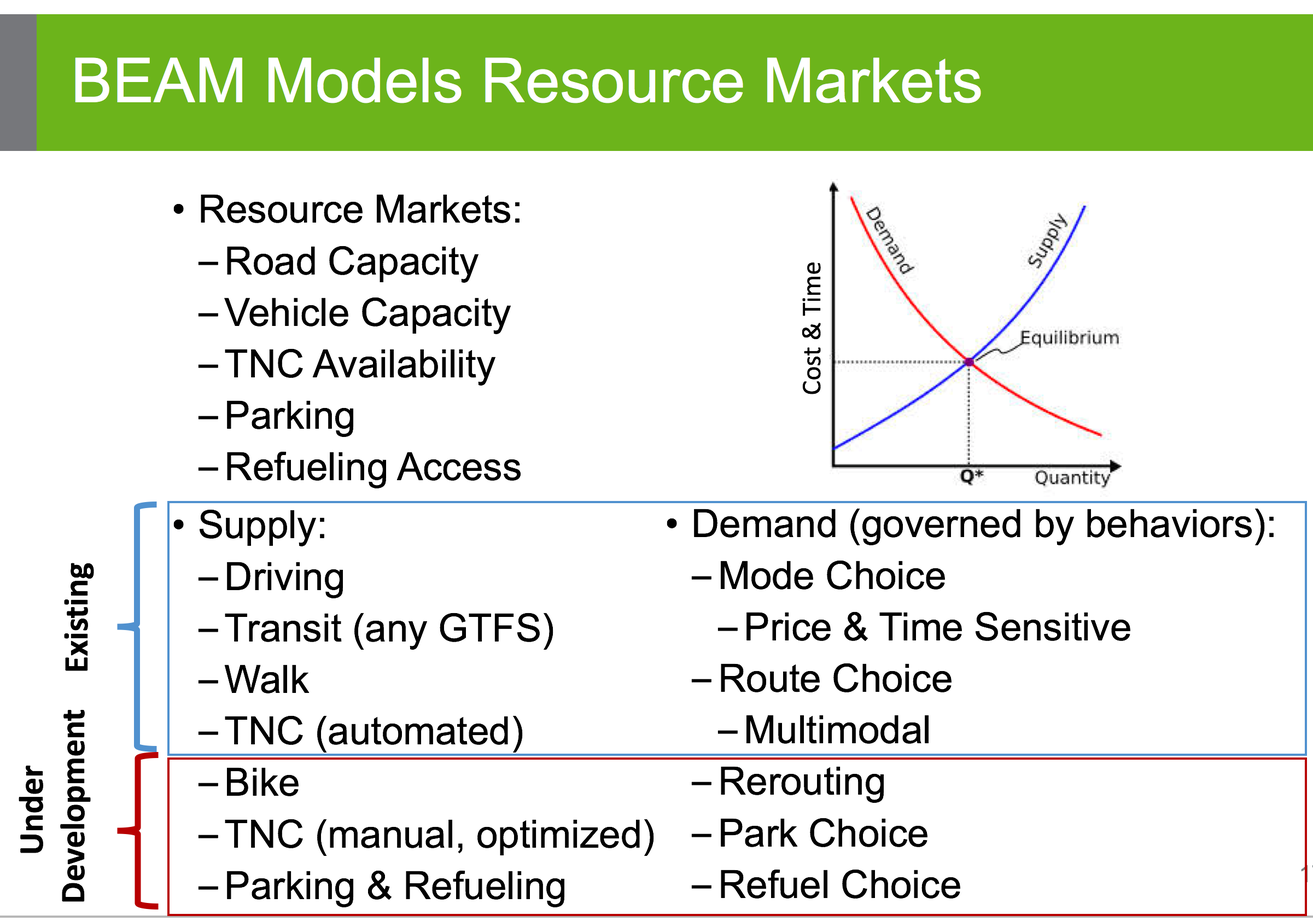
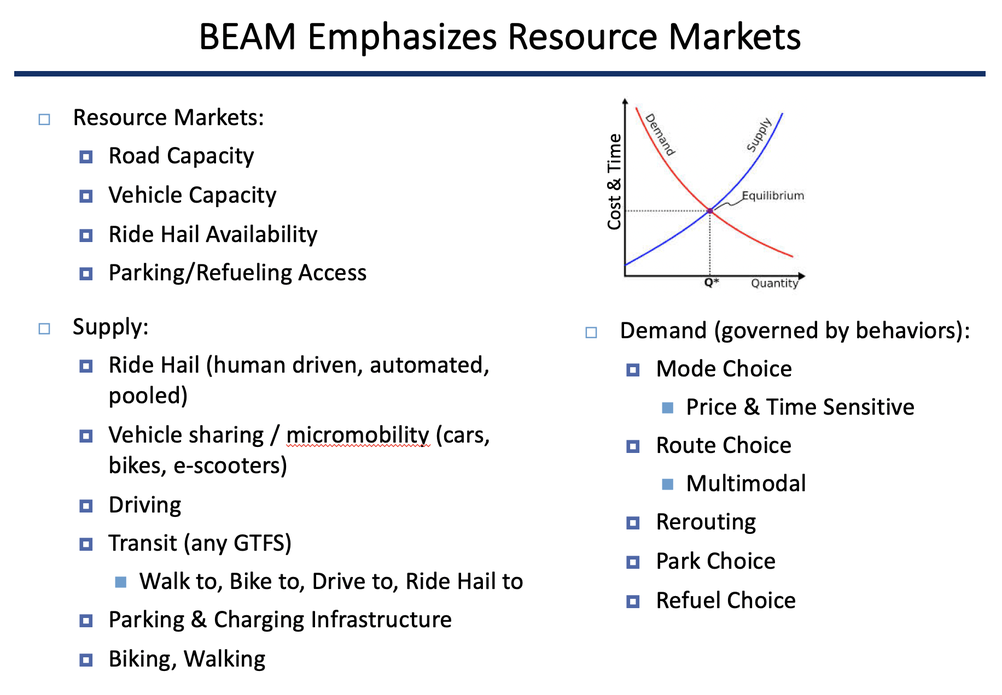
updates

Changed region(s): [[0.0, 0.0, 1.0, 1.0], [0.0622, 0.4599, 0.1556, 0.4906]]

diff --git a/docs/outputs.rst b/docs/outputs.rst
@@ -140,8 +140,8 @@ Classname: PhyssimCalcLinkSpeedDistributionStatsObject
 | numberOfLinks              | Total number of links having the corresponding link efficiency                                            |
 +----------------------------+-----------------------------------------------------------------------------------------------------------+
 
-File: /ITERS/it.0/0.rideHailWaitingStats.csv
---------------------------------------------
+File: /ITERS/it.0/0.rideHailWaitingHistogram.csv
+------------------------------------------------
 
 Classname: RideHailWaitingAnalysisObject 
 
@@ -201,8 +201,8 @@ Classname: GraphSurgePricingObject
 +------------+---------------------------------------------------------------------------------------------------------------------+
 
 
-File: /ITERS/it.0/0.tazRideHailSurgePriceLevel.csv
---------------------------------------------------
+File: /ITERS/it.0/0.tazRideHailSurgePriceLevel.csv.gz
+-----------------------------------------------------
 
 Classname: GraphSurgePricingObject 
 
@@ -230,21 +230,6 @@ Classname: RideHailingWaitingSingleAnalysisObject
 +------------------+------------------------------------------------------+
 | Hour*            | Hour of the day                                      |
 +------------------+------------------------------------------------------+
-
-File: /ITERS/it.0/0.rideHailInitialLocation.csv
------------------------------------------------
-
-Classname: BeamMobsim 
-
-+-----------------+---------------------------------------------------------+
-| field           | description                                             |
-+=================+=========================================================+
-| rideHailAgentID | Unique id of the given ride hail agent                  |
-+-----------------+---------------------------------------------------------+
-| xCoord          | X co-ordinate of the starting location of the ride hail |
-+-----------------+---------------------------------------------------------+
-| yCoord          | Y co-ordinate of the starting location of the ride hail |
-+-----------------+---------------------------------------------------------+
 
 File: /stopwatch.txt
 --------------------
@@ -319,77 +304,77 @@ File: /summaryStats.txt
 
 Classname: SummaryStatsOutput 
 
-+----------------------------------------+---------------------------------------------------------------------------------------------------------------------------------+
-| field                                  | description                                                                                                                     |
-+========================================+=================================================================================================================================+
-| Iteration                              | Iteration number                                                                                                                |
-+----------------------------------------+---------------------------------------------------------------------------------------------------------------------------------+
-| agentHoursOnCrowdedTransit             | Time taken by the agent to travel in a crowded transit                                                                          |
-+----------------------------------------+---------------------------------------------------------------------------------------------------------------------------------+
-| fuelConsumedInMJ_Diesel                | Amount of diesel consumed in megajoule                                                                                          |
-+----------------------------------------+---------------------------------------------------------------------------------------------------------------------------------+
-| fuelConsumedInMJ_Food                  | Amount of food consumed in megajoule                                                                                            |
-+----------------------------------------+---------------------------------------------------------------------------------------------------------------------------------+
-| fuelConsumedInMJ_Electricity           | Amount of electricity consumed in megajoule                                                                                     |
-+----------------------------------------+---------------------------------------------------------------------------------------------------------------------------------+
-| fuelConsumedInMJ_Gasoline              | Amount of gasoline consumed in megajoule                                                                                        |
-+----------------------------------------+---------------------------------------------------------------------------------------------------------------------------------+
-| numberOfVehicles_BEV                   | Time at which the beforeMobsim event listeners started                                                                          |
-+----------------------------------------+---------------------------------------------------------------------------------------------------------------------------------+
-| numberOfVehicles_BODY-TYPE-DEFAULT     | Number of vehicles of type BODY-TYPE-DEFAULT                                                                                    |
-+----------------------------------------+---------------------------------------------------------------------------------------------------------------------------------+
-| numberOfVehicles_BUS-DEFAULT           | Number of vehicles of type BUS-DEFAULT                                                                                          |
-+----------------------------------------+---------------------------------------------------------------------------------------------------------------------------------+
-| numberOfVehicles_Car                   | Time at which the beforeMobsim event listeners ended                                                                            |
-+----------------------------------------+---------------------------------------------------------------------------------------------------------------------------------+
-| numberOfVehicles_SUBWAY-DEFAULT        | Time at which the mobsim run started                                                                                            |
-+----------------------------------------+---------------------------------------------------------------------------------------------------------------------------------+
-| personTravelTime_car                   | Time taken by the passenger to travel by car                                                                                    |
-+----------------------------------------+---------------------------------------------------------------------------------------------------------------------------------+
-| personTravelTime_drive_transit         | Time taken by the passenger to drive to the transit                                                                             |
-+----------------------------------------+---------------------------------------------------------------------------------------------------------------------------------+
-| personTravelTime_others                | Time taken by the passenger to travel by other means                                                                            |
-+----------------------------------------+---------------------------------------------------------------------------------------------------------------------------------+
-| personTravelTime_walk                  | Time taken by the passenger to travel on foot                                                                                   |
-+----------------------------------------+---------------------------------------------------------------------------------------------------------------------------------+
-| personTravelTime_walk_transit          | Time taken by the passenger to walk to the transit                                                                              |
-+----------------------------------------+---------------------------------------------------------------------------------------------------------------------------------+
++------------------------------------------+-----------------------------------------------------------------------------------------------------------------------------------+
+| field                                    | description                                                                                                                       |
++==========================================+===================================================================================================================================+
+| Iteration                                | Iteration number                                                                                                                  |
++------------------------------------------+-----------------------------------------------------------------------------------------------------------------------------------+
+| agentHoursOnCrowdedTransit               | Time taken by the agent to travel in a crowded transit                                                                            |
++------------------------------------------+-----------------------------------------------------------------------------------------------------------------------------------+
+| fuelConsumedInMJ_Diesel                  | Amount of diesel consumed in megajoule                                                                                            |
++------------------------------------------+-----------------------------------------------------------------------------------------------------------------------------------+
+| fuelConsumedInMJ_Food                    | Amount of food consumed in megajoule                                                                                              |
++------------------------------------------+-----------------------------------------------------------------------------------------------------------------------------------+
+| fuelConsumedInMJ_Electricity             | Amount of electricity consumed in megajoule                                                                                       |
++------------------------------------------+-----------------------------------------------------------------------------------------------------------------------------------+
+| fuelConsumedInMJ_Gasoline                | Amount of gasoline consumed in megajoule                                                                                          |
++------------------------------------------+-----------------------------------------------------------------------------------------------------------------------------------+
+| numberOfVehicles_BEV                     | Time at which the beforeMobsim event listeners started                                                                            |
++------------------------------------------+-----------------------------------------------------------------------------------------------------------------------------------+
+| numberOfVehicles_BODY-TYPE-DEFAULT       | Number of vehicles of type BODY-TYPE-DEFAULT                                                                                      |
++------------------------------------------+-----------------------------------------------------------------------------------------------------------------------------------+
+| numberOfVehicles_BUS-DEFAULT             | Number of vehicles of type BUS-DEFAULT                                                                                            |
++------------------------------------------+-----------------------------------------------------------------------------------------------------------------------------------+
+| numberOfVehicles_Car                     | Time at which the beforeMobsim event listeners ended                                                                              |
++------------------------------------------+-----------------------------------------------------------------------------------------------------------------------------------+
+| numberOfVehicles_SUBWAY-DEFAULT          | Time at which the mobsim run started                                                                                              |
++------------------------------------------+-----------------------------------------------------------------------------------------------------------------------------------+
+| personTravelTime_car                     | Time taken by the passenger to travel by car                                                                                      |
++------------------------------------------+-----------------------------------------------------------------------------------------------------------------------------------+
+| personTravelTime_drive_transit           | Time taken by the passenger to drive to the transit                                                                               |
++------------------------------------------+-----------------------------------------------------------------------------------------------------------------------------------+
+| personTravelTime_others                  | Time taken by the passenger to travel by other means                                                                              |
++------------------------------------------+-----------------------------------------------------------------------------------------------------------------------------------+
+| personTravelTime_walk                    | Time taken by the passenger to travel on foot                                                                                     |
++------------------------------------------+-----------------------------------------------------------------------------------------------------------------------------------+
+| personTravelTime_walk_transit            | Time taken by the passenger to walk to the transit                                                                                |
++------------------------------------------+-----------------------------------------------------------------------------------------------------------------------------------+
 | totalCostIncludingIncentive_walk_transit | Total cost (including incentive) paid by the passenger to reach destination by walking to transit and then transit to destination |
-+----------------------------------------+---------------------------------------------------------------------------------------------------------------------------------+
++------------------------------------------+-----------------------------------------------------------------------------------------------------------------------------------+
 | totalCostIncludingIncentive_ride_hail    | Total cost (including incentive) paid by the passenger to reach destination on a ride hail                                        |
-+----------------------------------------+---------------------------------------------------------------------------------------------------------------------------------+
++------------------------------------------+-----------------------------------------------------------------------------------------------------------------------------------+
 | totalIncentive_drive_transit             | Total incentive amount paid to passenger to reach destination by driving to transit and then transit to destination               |
-+----------------------------------------+---------------------------------------------------------------------------------------------------------------------------------+
++------------------------------------------+-----------------------------------------------------------------------------------------------------------------------------------+
 | totalIncentive_ride_hail                 | Total incentive amount paid to passenger to reach destination by ride hail                                                        |
-+----------------------------------------+---------------------------------------------------------------------------------------------------------------------------------+
++------------------------------------------+-----------------------------------------------------------------------------------------------------------------------------------+
 | totalIncentive_walk_transit              | Total incentive amount paid to passenger to reach destination by walking to transit and then transit to destination               |
-+----------------------------------------+---------------------------------------------------------------------------------------------------------------------------------+
-| totalTravelTime                        | Total time taken by the passenger to travel from source to destination                                                          |
-+----------------------------------------+---------------------------------------------------------------------------------------------------------------------------------+
-| totalVehicleDelay                      | Sum of all the delay times incurred by the vehicle during the travel                                                            |
-+----------------------------------------+---------------------------------------------------------------------------------------------------------------------------------+
-| vehicleHoursTraveled_BEV               | Time taken (in hours) by the vehicle to travel from source to destination                                                       |
-+----------------------------------------+---------------------------------------------------------------------------------------------------------------------------------+
-| vehicleHoursTraveled_BODY-TYPE-DEFAULT | Time taken (in hours) by the vehicle to travel from source to destination                                                       |
-+----------------------------------------+---------------------------------------------------------------------------------------------------------------------------------+
-| vehicleHoursTraveled_BUS-DEFAULT       | Time taken (in hours) by the vehicle(bus) to travel from source to destination                                                  |
-+----------------------------------------+---------------------------------------------------------------------------------------------------------------------------------+
-| vehicleHoursTraveled_Car               | Time taken (in hours) by the vehicle(car) to travel from source to destination                                                  |
-+----------------------------------------+---------------------------------------------------------------------------------------------------------------------------------+
-| vehicleHoursTraveled_SUBWAY-DEFAULT    | Time taken (in hours) by the vehicle (subway) to travel from source to destination                                              |
-+----------------------------------------+---------------------------------------------------------------------------------------------------------------------------------+
-| vehicleMilesTraveled_BEV               | Miles covered by the vehicle to travel from source to destination                                                               |
-+----------------------------------------+---------------------------------------------------------------------------------------------------------------------------------+
-| vehicleMilesTraveled_BODY-TYPE-DEFAULT | Miles covered by the vehicle to travel from source to destination                                                               |
-+----------------------------------------+---------------------------------------------------------------------------------------------------------------------------------+
-| vehicleMilesTraveled_BUS-DEFAULT       | Miles covered by the vehicle(bus) to travel from source to destination                                                          |
-+----------------------------------------+---------------------------------------------------------------------------------------------------------------------------------+
-| vehicleMilesTraveled_Car               | Miles covered by the vehicle(car) to travel from source to destination                                                          |
-+----------------------------------------+---------------------------------------------------------------------------------------------------------------------------------+
-| vehicleMilesTraveled_SUBWAY-DEFAULT    | Miles covered by the vehicle(subway) to travel from source to destination                                                       |
-+----------------------------------------+---------------------------------------------------------------------------------------------------------------------------------+
-| vehicleMilesTraveled_total             | Miles covered by the vehicles(all modes) to travel from source to destination                                                   |
-+----------------------------------------+---------------------------------------------------------------------------------------------------------------------------------+
++------------------------------------------+-----------------------------------------------------------------------------------------------------------------------------------+
+| totalTravelTime                          | Total time taken by the passenger to travel from source to destination                                                            |
++------------------------------------------+-----------------------------------------------------------------------------------------------------------------------------------+
+| totalVehicleDelay                        | Sum of all the delay times incurred by the vehicle during the travel                                                              |
++------------------------------------------+-----------------------------------------------------------------------------------------------------------------------------------+
+| vehicleHoursTraveled_BEV                 | Time taken (in hours) by the vehicle to travel from source to destination                                                         |
++------------------------------------------+-----------------------------------------------------------------------------------------------------------------------------------+
+| vehicleHoursTraveled_BODY-TYPE-DEFAULT   | Time taken (in hours) by the vehicle to travel from source to destination                                                         |
++------------------------------------------+-----------------------------------------------------------------------------------------------------------------------------------+
+| vehicleHoursTraveled_BUS-DEFAULT         | Time taken (in hours) by the vehicle(bus) to travel from source to destination                                                    |
++------------------------------------------+-----------------------------------------------------------------------------------------------------------------------------------+
+| vehicleHoursTraveled_Car                 | Time taken (in hours) by the vehicle(car) to travel from source to destination                                                    |
++------------------------------------------+-----------------------------------------------------------------------------------------------------------------------------------+
+| vehicleHoursTraveled_SUBWAY-DEFAULT      | Time taken (in hours) by the vehicle (subway) to travel from source to destination                                                |
++------------------------------------------+-----------------------------------------------------------------------------------------------------------------------------------+
+| vehicleMilesTraveled_BEV                 | Miles covered by the vehicle to travel from source to destination                                                                 |
++------------------------------------------+-----------------------------------------------------------------------------------------------------------------------------------+
+| vehicleMilesTraveled_BODY-TYPE-DEFAULT   | Miles covered by the vehicle to travel from source to destination                                                                 |
++------------------------------------------+-----------------------------------------------------------------------------------------------------------------------------------+
+| vehicleMilesTraveled_BUS-DEFAULT         | Miles covered by the vehicle(bus) to travel from source to destination                                                            |
++------------------------------------------+-----------------------------------------------------------------------------------------------------------------------------------+
+| vehicleMilesTraveled_Car                 | Miles covered by the vehicle(car) to travel from source to destination                                                            |
++------------------------------------------+-----------------------------------------------------------------------------------------------------------------------------------+
+| vehicleMilesTraveled_SUBWAY-DEFAULT      | Miles covered by the vehicle(subway) to travel from source to destination                                                         |
++------------------------------------------+-----------------------------------------------------------------------------------------------------------------------------------+
+| vehicleMilesTraveled_total               | Miles covered by the vehicles(all modes) to travel from source to destination                                                     |
++------------------------------------------+-----------------------------------------------------------------------------------------------------------------------------------+
 
 File: /ITERS/it.0/0.countsCompare.txt
 -------------------------------------
@@ -627,3 +612,30 @@ Classname: BiasNormalizedErrorGraphDataOutput
 +--------------------------------+--------------------------------+
 | mean bias                      | Mean bias value                |
 +--------------------------------+--------------------------------+
+
+File: /ITERS/it.0/0.rideHailFleet.csv.gz
+----------------------------------------
+
+Classname: RideHailFleetInitialize 
+
++-------------------+-------------------------------------------------------------------------------+
+| field             | description                                                                   |
++===================+===============================================================================+
+| id                | Id of the ride hail vehicle                                                   |
++-------------------+-------------------------------------------------------------------------------+
+| rideHailManagerId | Id of the ride hail manager                                                   |
++-------------------+-------------------------------------------------------------------------------+
+| vehicleType       | Type of the beam vehicle                                                      |
++-------------------+-------------------------------------------------------------------------------+
+| initialLocationX  | X-coordinate of the initial location of the ride hail vehicle                 |
++-------------------+-------------------------------------------------------------------------------+
+| initialLocationY  | Y-coordinate of the initial location of the ride hail vehicle                 |
++-------------------+-------------------------------------------------------------------------------+
+| shifts            | Time shifts for the vehicle , usually a stringified collection of time ranges |
++-------------------+-------------------------------------------------------------------------------+
+| geoFenceX         | X-coordinate of the geo fence central point                                   |
++-------------------+-------------------------------------------------------------------------------+
+| geoFenceY         | Y-coordinate of the geo fence central point                                   |
++-------------------+-------------------------------------------------------------------------------+
+| geoFenceRadius    | Radius of the geo fence                                                       |
++-------------------+-------------------------------------------------------------------------------+

diff --git a/docs/about.rst b/docs/about.rst
@@ -13,15 +13,19 @@ These key features are summarized here and described in further detail below:
 
 * **MATSim Integration** BEAM leverages the MATSim modeling framework[1], an open source simulation tool with a vibrant community of global developers. MATSim is extensible (BEAM is one of those extensions) which allows modelers to utilize a large suite of tools and plug-ins to serve their research and analytical interests.
 
-* **Resource Markets** While BEAM can be used as a tool for modeling and analyzing the detailed operations of a transportation system, it is designed primarily as an approach to modeling resource markets in the transportation sector. The transportation system is composed of several sets of mobility resources that are in limited supply (e.g. road capacities, vehicle seating, TNC fleet availability, refueling infrastructure). By adopting the MATSim utility maximization approach to achieving user equilibrium for traffic modeling, BEAM is able to find the corresponding equilibrium point across all resource markets of interest.
+* **Resource Markets** While BEAM can be used as a tool for modeling and analyzing the detailed operations of a transportation system, it is designed primarily as an approach to modeling resource markets in the transportation sector. The transportation system is composed of several sets of mobility resources that are in limited supply (e.g. road capacities, vehicle seating, ride hail fleet availability, refueling infrastructure). By adopting the MATSim utility maximization approach to achieving user equilibrium for traffic modeling, BEAM is able to find the corresponding equilibrium point across all resource markets of interest.
 
 * **Dynamic Within-Day Planning** Because BEAM places a heavy emphasis on within-day planning, it is possible to simulate modern mobility services in a manner that reflects the emerging transportation system. For example, a virtual TNC in BEAM responds to customer inquiries by reporting the wait time for a ride, which the BEAM agents consider in their decision on what service or mode to use. 
 
-* **Rich Modal Choice** BEAM’s mode choice model is structured so that agents select modal strategies (e.g. “car” versus “walk to transit” versus “TNC”) for each tour prior to the simulation day, but resolve the outcome of these strategies within the day (e.g. route selection, standard TNC versus pooled, etc.).  BEAM currently supports a simple multinomial logit choice model and a more advanced model is under development and will be fully supported by Spring 2018. 
+* **Rich Modal Choice** BEAM’s mode choice model is structured so that agents select modal strategies (e.g. “car” versus “walk to transit” versus “ride hail”) for each tour prior to the simulation day, but resolve the outcome of these strategies within the day (e.g. route selection, standard ride hail versus pooled, etc.).  
 
-* **Transportation Network Companies** TNCs are already changing the mobility landscape and as driverless vehicles come online, the economics of these services will improve substantially. In BEAM, TNCs are modeled as a fleet of taxis controlled by a centralized manager that responds to requests from customers and dispatches vehicles accordingly. In 2018, BEAM will be extended to simulate the behavioral processes of TNC drivers as well as implement control algorithms designed to optimize fleets of fully automated vehicles.
+* **Transportation Network Companies** TNCs are already changing the mobility landscape and as driverless vehicles come online, the economics of these services will improve substantially. In BEAM, TNCs are modeled as a fleet of ride hail vehicles controlled by a centralized manager that responds to requests from customers and dispatches vehicles accordingly. The fleet can be composed of human drivers, autonomous vehicles, or a hybrid of both human and driverless. The management of the fleet has been developed as an API that can be implemented using mutliple algorithms, allowing users of BEAM to test their own fleet control strategies. Finally, we have implemented a scalable pooling algorithm that efficiency matches customers and pools them into vehicles. Pooled ride hail is treated as a distinct mode and therefore only customers who request such a ride are considered for pooling.
 
-* **Designed for Scale** BEAM is written primarily in Scala and leverages the Akka_ library for currency which implements the [Actor Model of Computation](https://en.wikipedia.org/wiki/Actor_model). This approach simplifies the process of deploying transportation simulations at full scale and utilizing high performance computing resources. BEAM has been designed to integrate with Amazon Web Services including a framework to automatically deploy simulation runs to the cloud. 
+* **Parallel Within Day Dynamics** BEAM is written primarily in Scala and leverages the Akka_ library for currency which implements the [Actor Model of Computation](https://en.wikipedia.org/wiki/Actor_model). These tools enable the model to run as a parallel discrete event simulation. This capability is critical to simulate a transportation system that is more dynamic (primarily via on-demand forms of mobility) in a manner than can still achieve non-trivial scales. In addition, this approach allows BEAM to continue to use parallel processing while also simulating resource competition, e.g. agents are accessing finite resources like parking spaces, charging infrastructure, or micromobility vehicles in a manner that is still parallelized but nevertheless disallows one resource to be used by two agents simultaneously. 
+  
+* **Open Source Code and Data** BEAM is released under a permissive open source license. The code can be copied, modified, and/or used for any purpose. In addition, we publish all of the data necessary to do production runs of BEAM. In other words, anyone can run the same BEAM scenarios that we use for our own projects and research activities. At the moment this consists of a San Francisco Bay Area application that has been calibrated and validated for use by the U.S. DOE's SMART Mobility Consortium. 
+
+* **Cloud Deployable** BEAM has been designed to integrate with Amazon Web Services including a framework to automatically deploy simulation runs to the cloud, to monitor those runs in real-time, and then upload results to S3 for permanent storage. An amazon EC2 snapshot capable of running BEAM can be made available to interested users upon request.
 
 .. _Akka: https://akka.io/
 
@@ -58,7 +62,7 @@ The PhysSim simulates traffic on the road network. The underlying simulation eng
 
 JDEQSim was designed as a MobSim engine for MATSim, so it is capable of simulating activities and movements through the network. In BEAM, we use JDEQSim within PhysSim as purely a **vehicle** movement simulator.  As PathTraversalEvents are received by the PhysSim, a set of MATSim Plans are created, with one plan for each vehicle in the AgentSim. These plans include "Activities" but they are just dummy activities that bracket the movement of each vehicle.
 
-Currently, PhySim and AgentSim run serially, one after another. This is due to the fact that the PhySim is substantially faster to run than the AgentSim, because the PhysSim does not need to do any routing calculations. As improvements to AgentSim reduce run times, future versions of BEAM will likely allow AgentSim and PhysSim to run concurrently, or even be run in a tightly coupled manner where each teleportation in AgentSim is replaced with a direct simulation of the propagation of vehicles through the network by the PhysSim.
+Currently, PhysSim and AgentSim run serially, one after another. This is due to the fact that the PhysSim is substantially faster to run than the AgentSim, because the PhysSim does not need to do any routing calculations. As improvements to AgentSim reduce run times, future versions of BEAM will likely allow AgentSim and PhysSim to run concurrently, or even be run in a tightly coupled manner where each teleportation in AgentSim is replaced with a direct simulation of the propagation of vehicles through the network by the PhysSim.
 
 R5 Router
 ^^^^^^^^^
@@ -72,7 +76,7 @@ BEAM uses the `R5 routing engine`_ to accomplish multi-modal routing. Agents fro
 MATSim Events
 ^^^^^^^^^^^^^
 
-BEAM adopts the MATSim convention of throwing events that correspond to key moments in the agent's day. But in BEAM, there are two separate event managers, one for the ActorSim and another for the PhySim. 
+BEAM adopts the MATSim convention of throwing events that correspond to key moments in the agent's day. But in BEAM, there are two separate event managers, one for the ActorSim and another for the PhysSim. 
 
 The standard events output file (e.g. `0.events.csv`) comes from the AgentSim, but in the outputs directory, you will also find an events file from the PhysSim (e.g. `0.physSimEvents.xml.gz`).  The events from AgentSim pertain to agents while the events in PhysSim pertain to vehicles. This is an important distinction.
 
@@ -110,17 +114,17 @@ Resource Markets
 
 While BEAM can be used as a tool for modeling and analyzing the detailed operations of a transportation system, it is designed primarily as an approach to modeling resource markets in the transportation sector. 
 
-The transportation system is composed of several sets of mobility resources that are in limited supply (e.g. road capacities, vehicle seating, TNC fleet availability, refueling infrastructure). With the exception of road capacities, all resources in BEAM are explicitly modeled. For example, there are a finite number of seats available on transit vehicles and there are a finite number of TNC drivers. 
+The transportation system is composed of several sets of mobility resources that are in limited supply (e.g. road capacities, vehicle seating, ride hail fleet availability, refueling infrastructure). With the exception of road capacities, all resources in BEAM are explicitly modeled. For example, there are a finite number of seats available on transit vehicles and there are a finite number of ride hail drivers. 
 
 As resources are utilized by travelers, they become unavailable to other travelers. This resource competition is resolved dynamically within the AgentSim, making it impossible for multiple agents to simultaneously utilize the same resource.
 
-The degree to which agents use resources is determined both by resource availability and traveler behavior. As the supply of TNC drivers becomes limited, the wait times for hailing a ride increase, which leads to lower utility scores in the mode choice process and therefore reduced consumption of that resource.
+The degree to which agents use resources is determined both by resource availability and traveler behavior. As the supply of ride hail drivers becomes limited, the wait times for hailing a ride increase, which leads to lower utility scores in the mode choice process and therefore reduced consumption of that resource.
 
 By adopting the MATSim utility maximization approach to achieving user equilibrium for traffic modeling, BEAM is able to find the corresponding equilibrium point across all resource markets of interest. Each agent maximizes her utility through the replanning process (which occurs outside the simulation day) as well as within the day through dynamic choice processes (e.g. choosing mode based on with-in day evaluation of modal alternatives).
 
 Ultimately, the combined outcome of running BEAM over successive iterations is a system equilibrium that balances the trade-offs between all resources in the system.
 
-In the figure above, the resource markets that are functioning in BEAM v0.5 are boxed in blue. Future versions of BEAM (planned for 2018) will include the additional resources boxed in red.
+In the figure above, the resource markets that are functioning in BEAM v0.8.0 are listed. 
 
 Dynamic Within-Day Planning
 ---------------------------
@@ -130,8 +134,7 @@ For example, a virtual TNC in BEAM responds to customer inquiries by reporting t
 
 Rich Modal Choice
 -----------------
-BEAM’s mode choice model is structured so that agents select modal strategies (e.g. “car” versus “walk to transit” versus “TNC”) for each tour prior to the simulation day, but resolve the outcome of these strategies within the day (e.g. route selection, standard TNC versus pooled, etc.).  BEAM currently supports a simple multinomial logit choice model and a more advanced model is under development and will be fully supported by Spring 2018. 
-
+BEAM’s mode choice model is structured so that agents select modal strategies (e.g. “car” versus “walk to transit” versus “ride hail”) for each tour prior to the simulation day, but resolve the outcome of these strategies within the day (e.g. route selection, standard ride hail versus pooled, etc.).  BEAM currently supports a simple multinomial logit choice model and a more advanced model is under development and will be fully supported by Spring 2018. 
 
 
 Plug-in Electric Vehicle Modeling with BEAM
@@ -139,7 +142,7 @@ Plug-in Electric Vehicle Modeling with BEAM
 
 In 2016, BEAM was originally developed to simulate personally-owned plug-in electric vehicles (PEVs), with an emphasis on detailed representation of charging infrastructure and driver behavior around charging. 
 
-In 2017, BEAM underwent a major revision, designed to simulate all modes of travel and to prepare the software for scalability and extensibility. We therefore no longer support the "PEV Only" version of BEAM, though the codebase is still available on the BEAM Github repository under the branch pev-only_. In 2018, PEVs will be re-implemented in BEAM following the new framework. In addition, BEAM will support modeling the refueling of fleets of electrified TNCs. 
+In 2017, BEAM underwent a major revision, designed to simulate all modes of travel and to prepare the software for scalability and extensibility. We therefore no longer support the "PEV Only" version of BEAM, though the codebase is still available on the BEAM Github repository under the branch pev-only_. In 2018, PEVs were re-implemented in BEAM following the new framework. In addition, BEAM supports modeling the refueling of fleets of electrified ride hail vehicles. 
  
 .. _pev-only: https://github.com/LBNL-UCB-STI/beam/tree/pev-only
 
@@ -159,11 +162,6 @@ colin.sheppard@lbl.gov
 
 Rashid Waraich
 rwaraich@lbl.gov
-
-Reports and Papers
-------------------
-
-“Modeling Plug-in Electric Vehicle Trips, Charging Demand and Infrastructure”.
 
 References
 ----------
